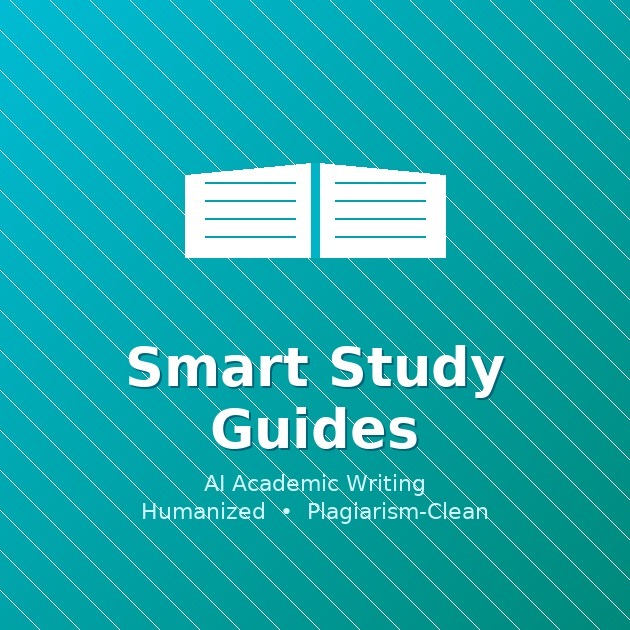
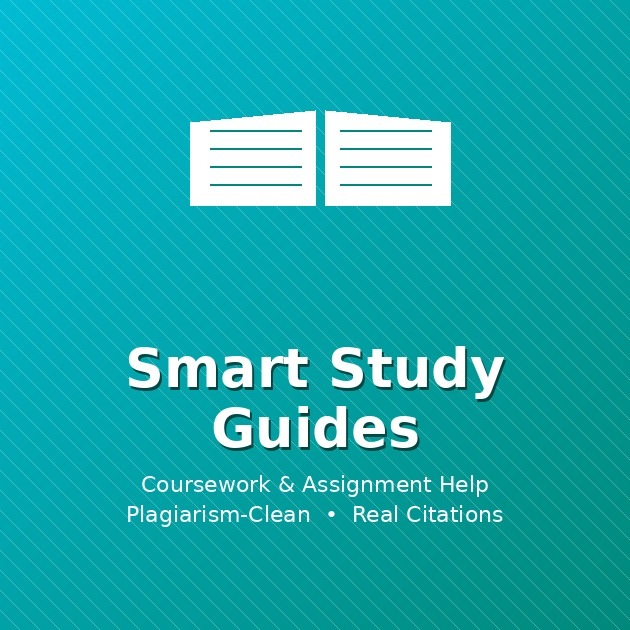
Position the site as coursework and assignment help, not 'AI-powered'
- Search/share metadata: new <title>, description, keywords, Open Graph and Twitter text
- Home structured data (JSON-LD): description, feature list and FAQ answer reworded
- Redraw og-cover.jpg, og-square.jpg and og-cover.png (shared-link and structured-data images) without the 'AI Academic Writing / Humanized' text; the old wide image also had white bars and a stray size label
- Remove 'AI-powered' / 'AI-written' / 'AI-generated' marketing wording from the home page, dashboard previews, help, career page, My Assignments and plan pages
- Terms: reword the intro; keep the AI-generated content disclosure and disclaimers
- Tool names AI Checker and Remove AI are unchanged

diff --git a/flask_app/templates/base.html b/flask_app/templates/base.html
@@ -3,11 +3,11 @@
 <head>
   <meta charset="utf-8" />
   <meta name="viewport" content="width=device-width, initial-scale=1" />
-  <title>{% block title %}Smart Study Guides — AI Academic Assignment Writer{% endblock %}</title>
+  <title>{% block title %}Smart Study Guides — Coursework and Assignment Help{% endblock %}</title>
 
   <!-- ── SEO Meta ── -->
-  <meta name="description" content="{% block meta_description %}Smart Study Guides generates polished, properly-cited academic assignments in minutes. Real research and proper citations — delivered as a Word document.{% endblock %}" />
-  <meta name="keywords" content="{% block meta_keywords %}AI assignment writer, academic writing AI, essay generator, homework help, plagiarism-free assignments, AI essay writer, college assignment help, academic paper generator{% endblock %}" />
+  <meta name="description" content="{% block meta_description %}Smart Study Guides helps with coursework: polished, properly cited essays, discussion posts and presentations in minutes. Real research sources, delivered as a Word document.{% endblock %}" />
+  <meta name="keywords" content="{% block meta_keywords %}assignment help, coursework help, essay help, homework help, discussion posts, presentations, college assignment help, plagiarism-free assignments, APA MLA Harvard citations, Word document{% endblock %}" />
   <meta name="robots" content="{% block meta_robots %}index, follow{% endblock %}" />
   <link rel="canonical" href="{% block canonical %}https://smart-study-guides.com{{ request.path }}{% endblock %}" />
 
@@ -20,8 +20,8 @@
   <!-- ── Open Graph (Facebook, WhatsApp, LinkedIn) ── -->
   <meta property="og:type"        content="website" />
   <meta property="og:site_name"   content="Smart Study Guides" />
-  <meta property="og:title"       content="{% block og_title %}Smart Study Guides — AI Academic Assignment Writer{% endblock %}" />
-  <meta property="og:description" content="{% block og_description %}Generate polished, properly-cited academic assignments in minutes. Real research and proper citations — delivered as a Word document.{% endblock %}" />
+  <meta property="og:title"       content="{% block og_title %}Smart Study Guides — Coursework and Assignment Help{% endblock %}" />
+  <meta property="og:description" content="{% block og_description %}Coursework and assignment help: polished, properly cited work with real research sources, delivered as a Word document.{% endblock %}" />
   <meta property="og:url"         content="https://smart-study-guides.com{{ request.path }}" />
   <meta property="og:image"       content="{% block og_image %}https://smart-study-guides.com/static/img/og-cover.jpg{% endblock %}" />
   <meta property="og:image:width"  content="630" />
@@ -30,8 +30,8 @@
 
   <!-- ── Twitter / X Card ── -->
   <meta name="twitter:card"        content="summary_large_image" />
-  <meta name="twitter:title"       content="{% block twitter_title %}Smart Study Guides — AI Academic Assignment Writer{% endblock %}" />
-  <meta name="twitter:description" content="{% block twitter_description %}Generate polished academic assignments in minutes. Real research, plagiarism-clean — delivered as .docx.{% endblock %}" />
+  <meta name="twitter:title"       content="{% block twitter_title %}Smart Study Guides — Coursework and Assignment Help{% endblock %}" />
+  <meta name="twitter:description" content="{% block twitter_description %}Coursework and assignment help. Real research, plagiarism-clean, delivered as .docx.{% endblock %}" />
   <meta name="twitter:image"       content="{% block twitter_image %}https://smart-study-guides.com/static/img/og-cover.jpg{% endblock %}" />
 
   <!-- ── Extra head (JSON-LD etc) ── -->

diff --git a/flask_app/templates/home.html b/flask_app/templates/home.html
@@ -1,8 +1,8 @@
 {% extends "base.html" %}
-{% block title %}Smart Study Guides — AI Academic Assignment Writer{% endblock %}
-{% block meta_description %}Smart Study Guides writes polished, properly-cited academic assignments in minutes. Real research sources and proper citations — delivered as a Word document. Weekly Pass: $25 for 7 days.{% endblock %}
-{% block og_title %}Smart Study Guides — AI Academic Assignment Writer{% endblock %}
-{% block og_description %}Get polished, plagiarism-clean academic assignments written by AI — with real citations. Delivered as a .docx file.{% endblock %}
+{% block title %}Smart Study Guides — Coursework and Assignment Help{% endblock %}
+{% block meta_description %}Smart Study Guides helps with coursework and assignments: polished, properly cited essays, discussion posts and presentations with real research sources, delivered as a Word document. Weekly Pass: $25 for 7 days.{% endblock %}
+{% block og_title %}Smart Study Guides — Coursework and Assignment Help{% endblock %}
+{% block og_description %}Coursework and assignment help with real citations. Polished, plagiarism-clean work delivered as a .docx file.{% endblock %}
 {% block extra_head %}
 <!-- SoftwareApplication schema -->
 <script type="application/ld+json">
@@ -13,7 +13,7 @@
   "url": "https://smart-study-guides.com",
   "applicationCategory": "EducationalApplication",
   "operatingSystem": "Web",
-  "description": "AI-powered academic assignment writer that generates polished, properly-cited essays and papers with real research sources — delivered as Word documents.",
+  "description": "Coursework and assignment help: essays, discussion posts and presentations with real research sources, delivered as Word documents.",
   "offers": {
     "@type": "AggregateOffer",
     "lowPrice": "25.00",
@@ -22,7 +22,7 @@
     "offerCount": "1"
   },
   "featureList": [
-    "AI-generated academic assignments",
+    "Essays, discussion posts and presentations",
     "Real academic sources and citations",
     "AI content checker",
     "Plagiarism checker",
@@ -72,7 +72,7 @@
       "name": "What is Smart Study Guides?",
       "acceptedAnswer": {
         "@type": "Answer",
-        "text": "Smart Study Guides is an AI-powered academic writing service that generates fully-written, properly-cited essays and assignments. It sources real academic references and delivers a formatted Word document."
+        "text": "Smart Study Guides is a coursework and assignment service that produces fully written, properly cited essays and assignments. It sources real academic references and delivers a formatted Word document."
       }
     },
     {
@@ -114,7 +114,7 @@
 {% block content %}
 <section class="landing-hero">
   <div class="landing-hero-inner">
-    <span class="landing-eyebrow">AI academic writing • Plagiarism-clean</span>
+    <span class="landing-eyebrow">Coursework &amp; assignment help • Plagiarism-clean</span>
     <h1>Smart Study Guides</h1>
     <p class="landing-sub">Polished, properly-cited academic assignments in minutes. Real research, delivered as a Word document.</p>
     <div class="landing-cta-row">

diff --git a/flask_app/templates/my_assignments.html b/flask_app/templates/my_assignments.html
@@ -6,7 +6,7 @@
   <h1>📂 My Assignments</h1>
   <div style="display:flex;gap:8px;">
     <a class="btn ghost" href="{{ url_for('main.post_human_assignment') }}">✍ Human Writer</a>
-    <a class="btn accent" href="{{ url_for('main.new_assignment') }}">+ AI Assignment</a>
+    <a class="btn accent" href="{{ url_for('main.new_assignment') }}">+ New Assignment</a>
   </div>
 </div>
 
@@ -23,7 +23,7 @@
 <!-- ── AI Assignments ───────────────────────────────────────────────────────── -->
 <div style="display:flex;align-items:center;justify-content:space-between;margin:0 0 12px;">
   <h2 style="font-size:17px;font-weight:600;color:var(--slate-500);margin:0;letter-spacing:.4px;">
-    🤖 AI-Generated Assignments
+    🤖 Assignments
   </h2>
   {% if assignments %}
   <label class="select-all-label">
@@ -82,7 +82,7 @@
 
             {% if a.status == 'complete' and a.docx_url %}
               {# ── AI file download ── #}
-              <a class="btn-sm accent" href="{{ a.docx_url }}" download title="Download AI-generated file">⬇ AI Draft</a>
+              <a class="btn-sm accent" href="{{ a.docx_url }}" download title="Download your file">⬇ Draft</a>
 
               {# ── AI Removal completed download ── #}
               {% if latest_removal %}
@@ -144,9 +144,9 @@
 {% else %}
 <div class="card empty-state" style="margin-bottom:32px;">
   <div class="empty-icon">📄</div>
-  <h3>No AI assignments yet</h3>
+  <h3>No assignments yet</h3>
   <p>Create your first assignment and we'll research, write, and format it — delivered as a .docx file.</p>
-  <a class="btn accent" href="{{ url_for('main.new_assignment') }}">+ Create AI Assignment</a>
+  <a class="btn accent" href="{{ url_for('main.new_assignment') }}">+ Create Assignment</a>
 </div>
 {% endif %}
 

diff --git a/flask_app/templates/terms.html b/flask_app/templates/terms.html
@@ -27,7 +27,7 @@
   <!-- 2 -->
   <div class="terms-section">
     <h2 class="terms-h2">2. Description of Services</h2>
-    <p>Smart Study Guides is an AI-powered writing assistance platform that provides the following services:</p>
+    <p>Smart Study Guides is a writing assistance platform that provides the following services:</p>
     <ul class="terms-list">
       <li><strong>Assignment Generation:</strong> AI-assisted academic paper writing with real cited sources</li>
       <li><strong>Remove AI:</strong> Human writers rewrite content you submit in their own words</li>

diff --git a/flask_app/templates/job_docs.html b/flask_app/templates/job_docs.html
@@ -9,7 +9,7 @@
   <div class="jd-header">
     <div>
       <h1>📄 Career Section <span class="jd-free-badge">Free Service</span></h1>
-      <p class="jd-sub">AI writes your professional career documents instantly —
+      <p class="jd-sub">Your professional career documents, written instantly —
         {% if can_access and referral_unlock %}free because you've referred subscribing members.
         {% elif can_access %}free with your active subscription.
         {% else %}free for all subscribers and members who refer subscribing clients.

diff --git a/flask_app/templates/subscription_success.html b/flask_app/templates/subscription_success.html
@@ -20,9 +20,9 @@
           <ul style="margin:0;padding-left:18px;color:var(--slate-600);line-height:2;">
             <li>
               {% if plan_info.get('daily_limit') %}
-                {{ plan_info.daily_limit }} AI assignments per day
+                {{ plan_info.daily_limit }} assignments per day
               {% else %}
-                Unlimited AI assignments per day
+                Unlimited assignments per day
               {% endif %}
             </li>
             <li>AI Checker tool — unlimited use</li>

diff --git a/flask_app/templates/help.html b/flask_app/templates/help.html
@@ -171,7 +171,7 @@
       <div class="help-step">
         <div class="help-step-num">3</div>
         <div>
-          <div class="help-step-title">AI writing</div>
+          <div class="help-step-title">Writing</div>
           <div class="help-step-desc">The paper is written using your approved sources and formatted in your chosen citation style.</div>
         </div>
       </div>

diff --git a/flask_app/app/routes.py b/flask_app/app/routes.py
@@ -349,7 +349,7 @@ def register_routes(app):
     GUEST_SERVICES = {
         "assignments": {
             "icon": "assign", "title": "Create Assignment", "endpoint": "main.new_assignment",
-            "tagline": "AI-written essays, discussion posts and presentations with real, properly cited sources, up to 5 pages.",
+            "tagline": "Essays, discussion posts and presentations with real, properly cited sources, up to 5 pages.",
             "steps": ["Enter your topic, page count and citation style.",
                       "Review the real academic sources we found and approve them.",
                       "We write it and deliver a formatted Word (.docx) document."],

diff --git a/flask_app/app/services/openai_service.py b/flask_app/app/services/openai_service.py
@@ -250,7 +250,7 @@ def mark_paper_with_rubric(paper_text: str, rubric_bytes: bytes,
         )
 
 
-SUPPORT_SYSTEM = """You are a friendly, warm customer support agent for Smart Study Guides — an AI-powered academic assignment writing platform.
+SUPPORT_SYSTEM = """You are a friendly, warm customer support agent for Smart Study Guides — an academic assignment and coursework platform.
 Keep replies concise (2–4 sentences max). Be empathetic and helpful.
 Topics you can help with: assignment creation, credits, payments, downloads, rubric marking, account issues.
 If you cannot resolve an issue tell the student a human agent will assist shortly.
